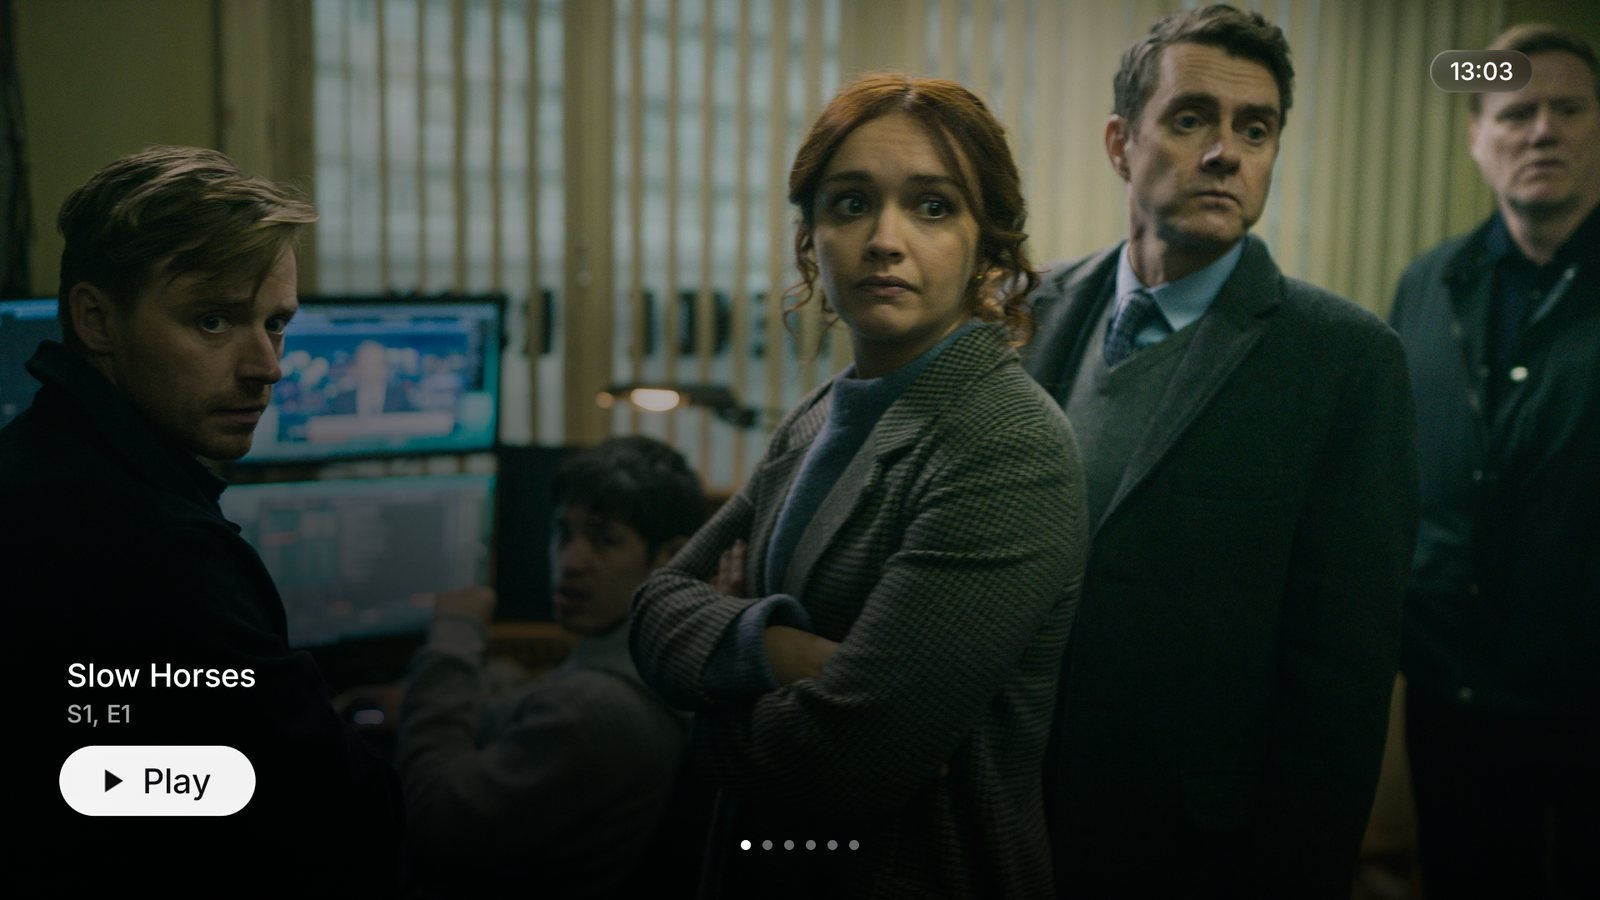
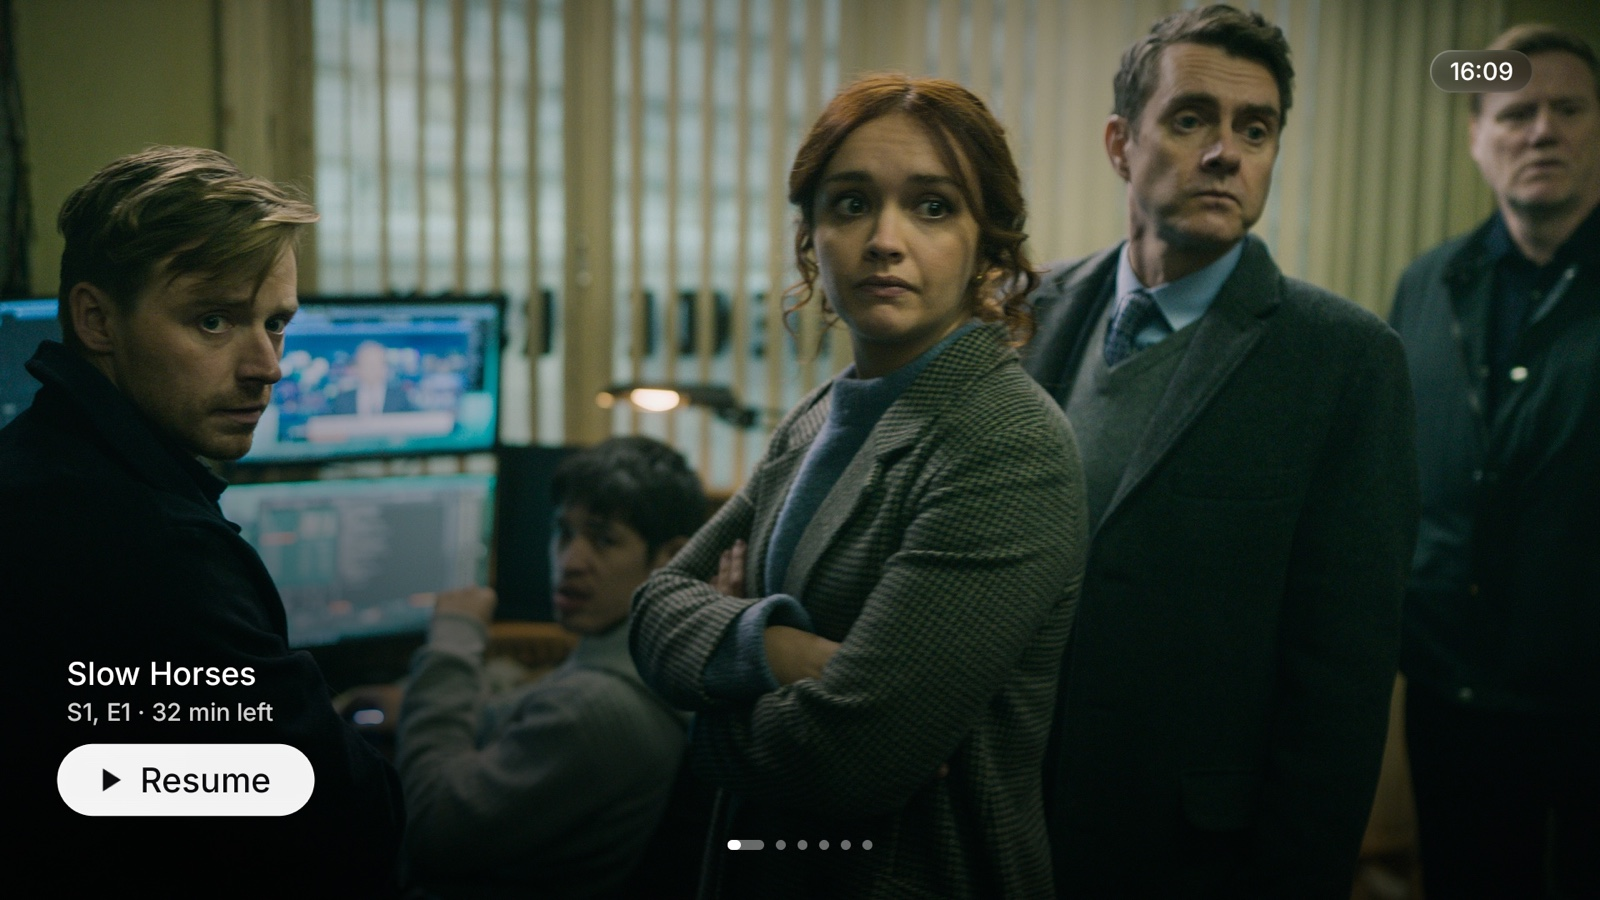
Update the README for the new look, with new pictures
Retakes every picture on the new build and adds one of the hold menu. They
show only Apple TV programs, with no music playing.

diff --git a/README.md b/README.md
@@ -8,9 +8,9 @@ Atrium replaces the Google TV home screen with one modelled on Apple TV's, inclu
 
 ## The home screen
 
-Move along the top row and the screen fills with artwork from that app, with nothing else on it. A small arrow shows there's more above, and the tops of the row below peek in at the bottom edge.
+Move along the top row and the screen fills with artwork from that app, with nothing else on it. A small arrow and "Press Up for full screen" show there's more above, and the tops of the row below peek in at the bottom edge.
 
-Press **Up** and the picture opens to full screen, with **Play** and page dots. **Left** and **Right** change program, and it moves on by itself after a while.
+Press **Up** and the picture opens to full screen, with **Play** (or **Resume** if you've started it), and **More Info** when the app wrote a description. **Left** and **Right** change program, and it moves on by itself after a while, with the current page dot filling up to show when. Leave the remote alone for about 20 seconds on an app with sharp artwork and the top row and clock slide away, and the screen moves slowly through what the app features until the screen saver takes over. Softer artwork, which many apps publish, keeps the top row over it. Any button brings the top row back.
 
 | At rest | Press Up |
 |---|---|
@@ -32,15 +32,19 @@ Don't want something there? Hold **Select** on it to remove it. It comes back on
 
 ## All your apps
 
-Everything else sits in a grid below, using Apple's six-column layout, over a frosted copy of the artwork. Hold **Select** on an app to rearrange it, move it to the top row, put it in a folder, hide it or delete it.
+Everything else sits in a grid below, using Apple's six-column layout, over a soft, dark wash of the artwork's colors. Hold **Select** on an app to rearrange it, move it to the top row, put it in a folder, hide it or delete it.
 
 ![The grid of apps, with one selected and its name underneath](docs/images/app-grid.jpg)
 
+Held on a tile in the top row, the menu opens just above it, so the row stays in view.
+
+![The menu for an app, opening above the Apple TV tile, with Edit Home Screen selected](docs/images/app-menu.jpg)
+
 ## Control Center
 
-Press **Up** to reach the clock and then **Select**, or just hold **Home**. Glass tiles float over whatever's on screen, with Sleep, Wi-Fi, Screen Saver, Sound, a Sleep Timer, Settings, Search and more. Sound, Wi-Fi and the Sleep Timer open their own glass panels. When music or a podcast is playing or paused in any app that shares it, like Spotify, it shows on top with its timeline and controls, as Apple's Now Playing does, and selecting the song opens that app. Small icons by the clock show when there's no internet, a Sleep Timer is running, something is playing, or headphones are connected.
+Hold **Home**, or press **Up** to reach the clock and then **Select**. Glass tiles float over whatever's on screen, with Sleep, Wi-Fi, Screen Saver, Sound, a Sleep Timer, Search and Accessibility. Sound, Wi-Fi and the Sleep Timer open their own glass panels. Tabs along the top work as on Apple TV: **Left** and **Right** move between them, and when music or a podcast is playing or paused in any app that shares it, like Spotify, a Now Playing tab appears with its timeline and controls, and selecting the song opens that app. Small icons by the clock show when there's no internet, a Sleep Timer is running, something is playing, or headphones are connected.
 
-![Control Center over Ghosted artwork](docs/images/control-center.jpg)
+![Control Center over Slow Horses artwork, with the time and tabs along the top](docs/images/control-center.jpg)
 
 ## Screen saver
 
@@ -52,7 +56,7 @@ After a few idle minutes, or when you press **Back** on the first app in the top
 
 ## Settings
 
-A plain list like Apple TV's, explaining each row as you reach it. Choose a wallpaper from seven gradients or your own photos, and control the clock, screen saver, click sounds and hidden apps.
+Organized like Apple TV's: a short list of topics, each opening its own page, with a large picture and an explanation beside the row you're on. Choose a wallpaper from seven gradients or your own photos, and control the clock, screen saver, click sounds and hidden apps.
 
 ![The Settings screen with Wallpaper selected](docs/images/settings.jpg)
 
